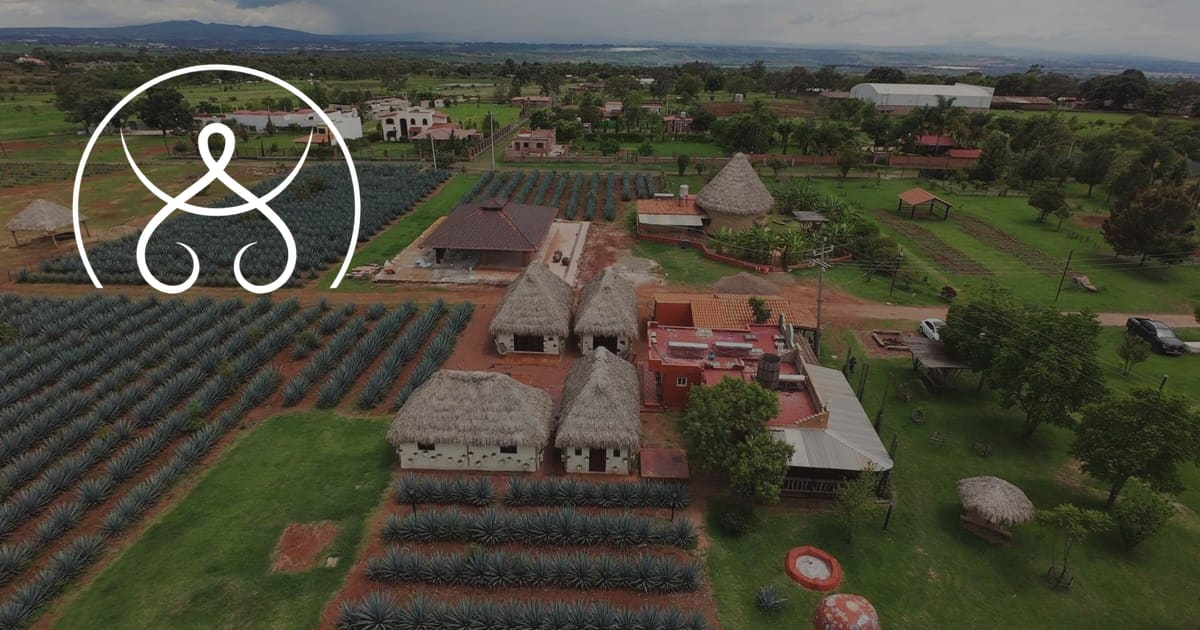
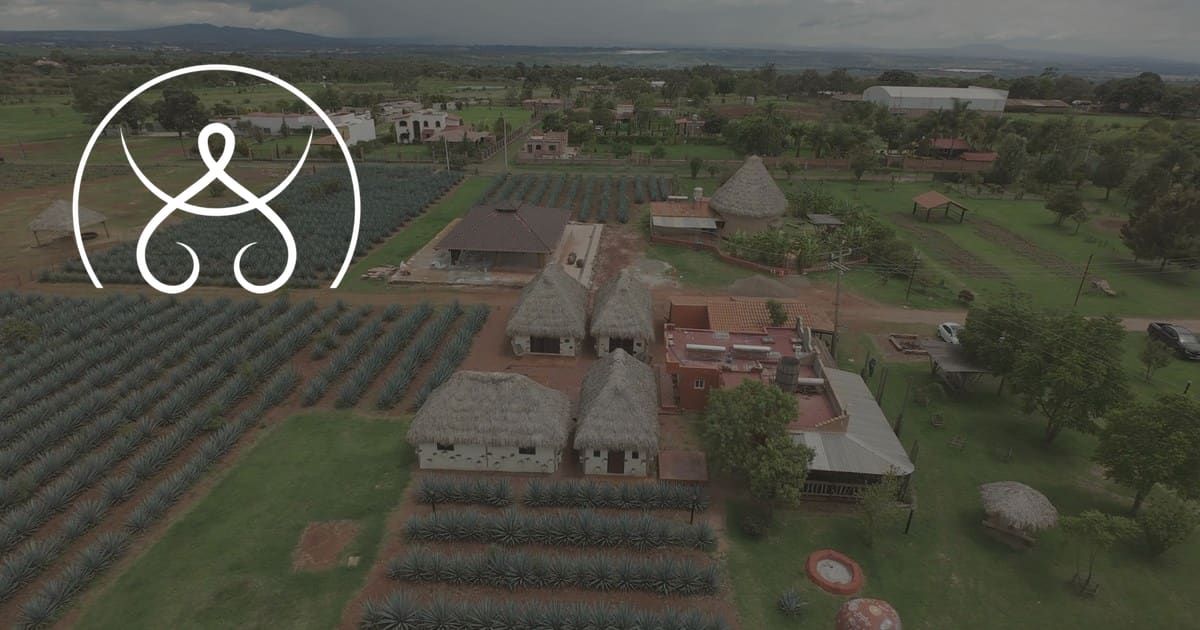
Blog: energía kundalini (ES/EN) con imagen de stock y SEO de entradas
- Artículo sobre la energía kundalini, su tradición, el kundalini yoga y la Finca
- Portada de Unsplash (Ksenia Makagonova), stock-meditacion-mala
- Imagen social por entrada (og en el front matter) y BlogPosting con image y mainEntityOfPage
- scripts/og.json: rutas de fotos renombradas

diff --git a/src/lib/blog.ts b/src/lib/blog.ts
@@ -1,7 +1,8 @@
 // Blog posts: Markdown files in src/content/blog/<name>.<es|en>.md.
-// Front matter: title, description, date (YYYY-MM-DD), image (a photo name), slug, pair (the other language's slug).
+// Front matter: title, description, date (YYYY-MM-DD), image (a photo name), slug, pair (the other language's slug),
+// og (optional: a social image in public/og/, made from scripts/og.json with `npm run icons`).
 import type { Lang } from './i18n';
-interface Frontmatter { title: string; description: string; date: string | Date; image: string; slug: string; pair?: string }
+interface Frontmatter { title: string; description: string; date: string | Date; image: string; slug: string; pair?: string; og?: string }
 type Module = { frontmatter: Frontmatter; Content: any };
 const files = import.meta.glob<Module>('/src/content/blog/*.md', { eager: true });
 const iso = (d: unknown) => (d instanceof Date ? d.toISOString() : String(d)).slice(0, 10);

diff --git a/src/content/blog/kundalini.es.md b/src/content/blog/kundalini.es.md
@@ -1,0 +1,85 @@
+---
+title: "Energía kundalini: qué es, de dónde viene y cómo se practica"
+description: "Qué es la energía kundalini, su origen en el tantra y el hatha yoga, cómo funciona el kundalini yoga, qué dice la ciencia y cómo practicarlo en un retiro cerca de Guadalajara."
+date: 2026-11-05
+image: stock-meditacion-mala
+slug: energia-kundalini
+pair: kundalini-energy
+og: post-kundalini
+---
+
+La **energía kundalini** es uno de los conceptos más antiguos y más mencionados del yoga. En la tradición se describe como una energía vital que descansa en la base de la columna y que, al despertar, asciende por el cuerpo hasta la coronilla. Hoy mucha gente llega a ella a través del **kundalini yoga**, una práctica que combina movimiento, respiración, mantra y meditación.
+
+En este artículo te contamos qué es la kundalini, de qué tradición viene, cómo es una clase de kundalini yoga, qué dice la investigación y cómo vivir esta práctica en Finca El Péndulo, en Los Altos de Jalisco.
+
+## Qué es la kundalini
+
+La palabra viene del sánscrito *kuṇḍalinī*, "la que está enroscada". La imagen clásica es la de una serpiente dormida, enrollada en la base de la columna, en el chakra raíz (*muladhara*). Esa serpiente representa un potencial que todos tenemos y que, en la mayoría de las personas, permanece en reposo.
+
+En las tradiciones tántricas, la kundalini es una forma de **Shakti**, la energía femenina y creadora del universo. Su contraparte es **Shiva**, la conciencia pura, que se sitúa en la coronilla, en el chakra *sahasrara*. El "despertar de la kundalini" describe el ascenso de Shakti para reunirse con Shiva. Para muchos maestros, esa unión es el sentido mismo de la palabra *yoga*: unir.
+
+## Los canales y los chakras
+
+Según el modelo del yoga sutil, la energía circula por canales llamados *nadis*. Tres son los principales:
+
+- **Sushumna**, el canal central, que recorre la columna. Es el camino por el que asciende la kundalini.
+- **Ida**, a la izquierda, asociado con la luna, la calma y lo receptivo.
+- **Pingala**, a la derecha, asociado con el sol, la actividad y el calor.
+
+Ida y pingala se entrelazan alrededor de sushumna y se cruzan en los centros de energía que conocemos como **chakras**. En el recorrido de la kundalini se suelen nombrar siete: raíz (*muladhara*), sacro (*svadhisthana*), plexo solar (*manipura*), corazón (*anahata*), garganta (*vishuddha*), entrecejo (*ajna*) y coronilla (*sahasrara*).
+
+## De dónde viene la práctica
+
+La idea de la kundalini nace en los textos tántricos de la India y se vuelve central en el **hatha yoga** medieval. Hacia el siglo XV, la *Hatha Yoga Pradipika* la describe dormida, cerrando la entrada de sushumna, y propone posturas, respiraciones (*pranayama*), sellos energéticos (*bandhas* y *mudras*) y concentración para despertarla. Otros textos, como el *Shiva Samhita*, desarrollan el mismo mapa.
+
+El **kundalini yoga** como estilo de clase es más reciente. Llegó a Occidente a finales de los años sesenta y se difundió por todo el mundo con una forma propia: series de ejercicios llamadas *kriyas*, respiración de fuego, mantras cantados y meditaciones con mudras. Hay maestros y estudiosos que señalan que este estilo moderno se diferencia de las enseñanzas tántricas antiguas; lo más honesto es verlo como una práctica contemporánea inspirada en esa tradición.
+
+## Cómo es una clase de kundalini yoga
+
+Una sesión suele seguir esta secuencia:
+
+1. **Sintonización** con un mantra, como *Ong Namo Guru Dev Namo*, para llegar al presente.
+2. **Calentamiento** de la columna y respiraciones para despertar el cuerpo.
+3. **Kriya**: una serie de posturas y movimientos repetidos, muchas veces con respiración rápida y rítmica, como la respiración de fuego.
+4. **Relajación** acostado, para que el cuerpo integre el trabajo.
+5. **Meditación** con mantra, mudra o canto, y un cierre en silencio.
+
+A diferencia de un yoga más físico, aquí el énfasis está en la respiración, la repetición y la atención. No necesitas flexibilidad ni experiencia previa: cada persona avanza a su ritmo.
+
+## Beneficios del kundalini yoga
+
+Quienes lo practican hablan de más energía, una mente más clara, mejor descanso y una sensación de conexión con su cuerpo y sus emociones. Parte de esto empieza a estudiarse:
+
+- En 2020, un ensayo clínico publicado en *JAMA Psychiatry* comparó durante 12 semanas el kundalini yoga, la terapia cognitivo-conductual y un curso de manejo del estrés en adultos con ansiedad generalizada. El 54 % de quienes hicieron kundalini yoga mejoró, frente al 33 % del grupo de manejo del estrés. La terapia cognitivo-conductual tuvo mejores resultados (71 %) y sigue siendo el tratamiento de primera línea, pero el yoga mostró ser un buen complemento.
+- La respiración lenta y la meditación, presentes en cada clase, se asocian en muchos estudios con menos estrés y mejor regulación emocional.
+
+El kundalini yoga no sustituye un tratamiento médico o psicológico. Es una práctica de bienestar que puede acompañar tu proceso.
+
+## El despertar de la kundalini: con calma y con guía
+
+En la tradición, el despertar de la kundalini es un proceso gradual que se cultiva durante años, no algo que se fuerza en una tarde. Las prácticas intensas de respiración y meditación pueden mover emociones fuertes, así que conviene:
+
+- Practicar con un facilitador con experiencia, sobre todo al empezar.
+- Respetar tus límites y descansar cuando lo necesites.
+- Consultar a tu médico si estás embarazada, tienes presión alta, problemas cardiacos o una condición de salud mental.
+- Integrar lo vivido: caminar, escribir, dormir bien y comer ligero ayudan.
+
+## Kundalini en Finca El Péndulo
+
+El kundalini es una de las prácticas que hacemos en Finca El Péndulo, un centro holístico en Tepatitlán de Morelos, a una hora de Guadalajara. Lo practicamos en espacios pensados para el trabajo interior, como el Osho Hut y el Oráculo, rodeados de agave azul, jardines y el Lago Ávalon.
+
+Puedes vivirlo como parte de un [retiro para tu grupo](/retiros), junto con otras [experiencias de bienestar](/experiencias) como el [temazcal](/blog/que-es-un-temazcal), la meditación o las caminatas por las seis hectáreas de la Finca. Si organizas un retiro de yoga o de kundalini, la Finca te ofrece hospedaje, tres alimentos al día y [los espacios](/espacios) para todo tu programa.
+
+## Preguntas frecuentes
+
+**¿La kundalini es lo mismo que el kundalini yoga?**
+No. La kundalini es el concepto de una energía vital descrito en el tantra y el hatha yoga. El kundalini yoga es un estilo de práctica que busca despertarla con respiración, movimiento, mantra y meditación.
+
+**¿Necesito experiencia para practicar kundalini yoga?**
+No. Las kriyas se adaptan a cada persona y lo importante es la respiración y la atención, no la flexibilidad.
+
+**¿Qué ropa uso?**
+Ropa cómoda y holgada. Muchas personas usan blanco por tradición, pero no es obligatorio.
+
+**¿Dónde practicar kundalini cerca de Guadalajara?**
+En Finca El Péndulo, en Los Altos de Jalisco, puedes integrar el kundalini a un retiro o a tu estancia. Escríbenos por WhatsApp y te contamos las opciones.

diff --git a/src/content/blog/kundalini.en.md b/src/content/blog/kundalini.en.md
@@ -1,0 +1,85 @@
+---
+title: "Kundalini energy: what it is, where it comes from and how to practise it"
+description: "What kundalini energy is, its roots in tantra and hatha yoga, how kundalini yoga works, what research says, and how to practise it on a retreat near Guadalajara, Mexico."
+date: 2026-11-05
+image: stock-meditacion-mala
+slug: kundalini-energy
+pair: energia-kundalini
+og: post-kundalini
+---
+
+**Kundalini energy** is one of the oldest and most talked-about ideas in yoga. Tradition describes it as a vital energy resting at the base of the spine that, once awakened, rises through the body to the crown of the head. Today many people meet it through **kundalini yoga**, a practice that brings together movement, breath, mantra and meditation.
+
+This article covers what kundalini is, the tradition it comes from, what a kundalini yoga class looks like, what research says, and how to practise it at Finca El Péndulo, in the highlands of Jalisco, Mexico.
+
+## What kundalini is
+
+The word comes from the Sanskrit *kuṇḍalinī*, "the coiled one". The classic image is a sleeping serpent coiled at the base of the spine, in the root chakra (*muladhara*). The serpent stands for a potential everyone has and that, in most people, stays at rest.
+
+In tantric traditions, kundalini is a form of **Shakti**, the feminine, creative energy of the universe. Its counterpart is **Shiva**, pure consciousness, placed at the crown, in the *sahasrara* chakra. A "kundalini awakening" describes Shakti rising to meet Shiva. For many teachers that union is the very meaning of the word *yoga*: to join.
+
+## The channels and the chakras
+
+In the model of the subtle body, energy flows through channels called *nadis*. Three matter most:
+
+- **Sushumna**, the central channel along the spine, the path kundalini climbs.
+- **Ida**, on the left, linked to the moon, calm and receptivity.
+- **Pingala**, on the right, linked to the sun, activity and heat.
+
+Ida and pingala wind around sushumna and cross at the energy centres known as **chakras**. Seven are usually named along kundalini's path: root (*muladhara*), sacral (*svadhisthana*), solar plexus (*manipura*), heart (*anahata*), throat (*vishuddha*), third eye (*ajna*) and crown (*sahasrara*).
+
+## Where the practice comes from
+
+The idea of kundalini begins in the tantric texts of India and becomes central to medieval **hatha yoga**. Around the 15th century, the *Hatha Yoga Pradipika* describes it asleep, closing the entrance to sushumna, and offers postures, breathing (*pranayama*), energy locks (*bandhas* and *mudras*) and concentration to wake it. Other texts, such as the *Shiva Samhita*, build on the same map.
+
+**Kundalini yoga** as a class style is more recent. It reached the West in the late 1960s and spread around the world in its own form: sets of exercises called *kriyas*, breath of fire, chanted mantras and meditations with mudras. Some teachers and scholars point out that this modern style differs from the older tantric teachings; it is fairest to see it as a contemporary practice inspired by that tradition.
+
+## What a kundalini yoga class looks like
+
+A session usually follows this order:
+
+1. **Tuning in** with a mantra, such as *Ong Namo Guru Dev Namo*, to arrive in the present.
+2. **Warming up** the spine, with breathing to wake the body.
+3. **Kriya**: a set of repeated postures and movements, often with fast, rhythmic breathing such as breath of fire.
+4. **Relaxation** lying down, so the body can take in the work.
+5. **Meditation** with mantra, mudra or chanting, and a silent close.
+
+Unlike more physical styles of yoga, the focus here is on breath, repetition and attention. You need no flexibility or previous experience: everyone moves at their own pace.
+
+## Benefits of kundalini yoga
+
+People who practise it speak of more energy, a clearer mind, better sleep and a stronger connection with their body and emotions. Some of this is now being studied:
+
+- In 2020 a clinical trial published in *JAMA Psychiatry* compared 12 weeks of kundalini yoga, cognitive behavioural therapy and a stress-management course in adults with generalized anxiety. 54% of those who did kundalini yoga improved, against 33% in the stress-management group. Cognitive behavioural therapy did better (71%) and remains the first-line treatment, but yoga proved a useful complement.
+- Slow breathing and meditation, part of every class, are linked in many studies to lower stress and better emotional regulation.
+
+Kundalini yoga does not replace medical or psychological care. It is a wellbeing practice that can support your process.
+
+## Kundalini awakening: slowly and with guidance
+
+In the tradition, kundalini awakening is a gradual process cultivated over years, not something to force in an afternoon. Intense breathing and meditation can stir strong emotions, so it helps to:
+
+- Practise with an experienced facilitator, especially at first.
+- Respect your limits and rest when you need to.
+- Check with your doctor if you are pregnant or have high blood pressure, a heart condition or a mental health condition.
+- Give yourself time to integrate: walking, writing, good sleep and light meals all help.
+
+## Kundalini at Finca El Péndulo
+
+Kundalini is one of the practices we offer at Finca El Péndulo, a holistic centre in Tepatitlán de Morelos, one hour from Guadalajara. We practise it in spaces made for inner work, such as the Osho Hut and the Oráculo, surrounded by blue agave, gardens and Lake Ávalon.
+
+You can experience it as part of a [retreat for your group](/en/retreats), alongside other [wellbeing experiences](/en/experiences) such as the [temazcal](/en/blog/what-is-a-temazcal), meditation or walks across the Finca's six hectares. If you run yoga or kundalini retreats, the Finca offers lodging, three meals a day and [the spaces](/en/spaces) for your whole programme.
+
+## Frequently asked questions
+
+**Is kundalini the same as kundalini yoga?**
+No. Kundalini is the idea of a vital energy described in tantra and hatha yoga. Kundalini yoga is a style of practice that seeks to awaken it through breath, movement, mantra and meditation.
+
+**Do I need experience to practise kundalini yoga?**
+No. Kriyas are adapted to each person, and what matters is breath and attention, not flexibility.
+
+**What should I wear?**
+Comfortable, loose clothes. Many people wear white by tradition, but it is not required.
+
+**Where can I practise kundalini near Guadalajara?**
+At Finca El Péndulo, in the highlands of Jalisco, you can add kundalini to a retreat or to your stay. Message us on WhatsApp and we will tell you the options.

diff --git a/src/content/blog/temazcal.es.md b/src/content/blog/temazcal.es.md
@@ -5,6 +5,7 @@ date: 2026-10-28
 image: esp-temazcal-1
 slug: que-es-un-temazcal
 pair: what-is-a-temazcal
+og: post-temazcal
 ---
 
 El temazcal es un baño de vapor de origen prehispánico. Su nombre viene del náhuatl *temazcalli*, "casa del vapor". Dentro de una pequeña construcción en forma de domo, piedras calentadas en el fuego se colocan al centro y se rocían con agua e infusiones de plantas. El vapor llena el espacio y la sesión avanza en etapas, acompañada de cantos, silencio o intenciones.

diff --git a/src/content/blog/temazcal.en.md b/src/content/blog/temazcal.en.md
@@ -5,6 +5,7 @@ date: 2026-10-28
 image: esp-temazcal-1
 slug: what-is-a-temazcal
 pair: que-es-un-temazcal
+og: post-temazcal
 ---
 
 The temazcal is a steam bath that dates back to pre-Hispanic Mexico. Its name comes from the Nahuatl *temazcalli*, "house of steam". Inside a small dome, stones heated in a fire are placed at the centre and sprinkled with water and herbal infusions. The steam fills the space and the session moves through stages, with songs, silence or intentions.

diff --git a/src/content/blog/sede-retiro.es.md b/src/content/blog/sede-retiro.es.md
@@ -5,6 +5,7 @@ date: 2026-10-20
 image: circulo-palapa
 slug: como-elegir-sede-para-tu-retiro
 pair: choosing-a-retreat-venue
+og: post-sede-retiro
 ---
 
 Elegir la sede es una de las decisiones que más influyen en la experiencia de un retiro. Estas son las preguntas que conviene hacerse antes de reservar.

diff --git a/src/content/blog/sede-retiro.en.md b/src/content/blog/sede-retiro.en.md
@@ -5,6 +5,7 @@ date: 2026-10-20
 image: circulo-palapa
 slug: choosing-a-retreat-venue
 pair: como-elegir-sede-para-tu-retiro
+og: post-sede-retiro
 ---
 
 Choosing the venue is one of the decisions that shapes a retreat the most. These are the questions worth asking before you book.
